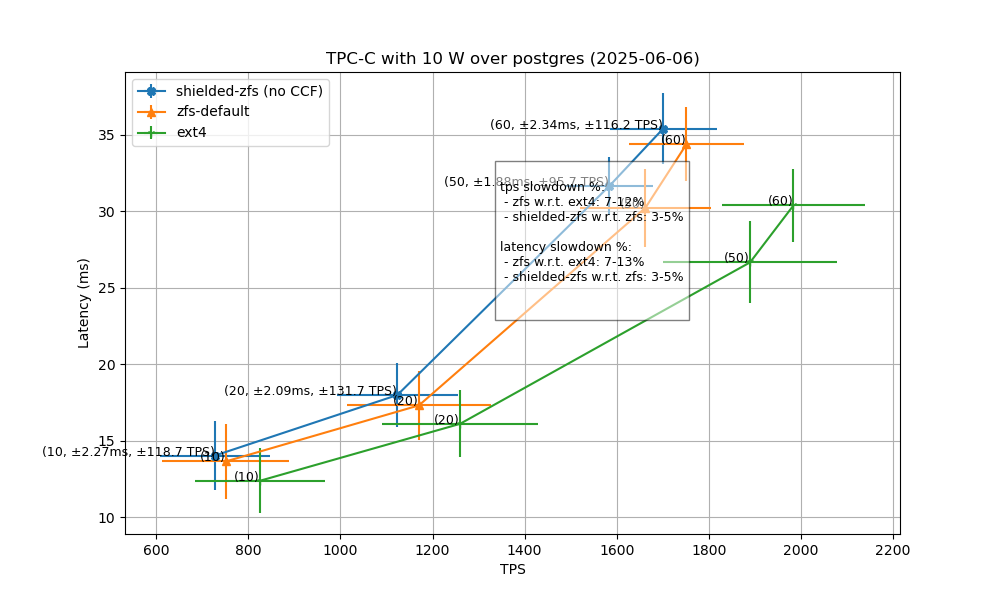
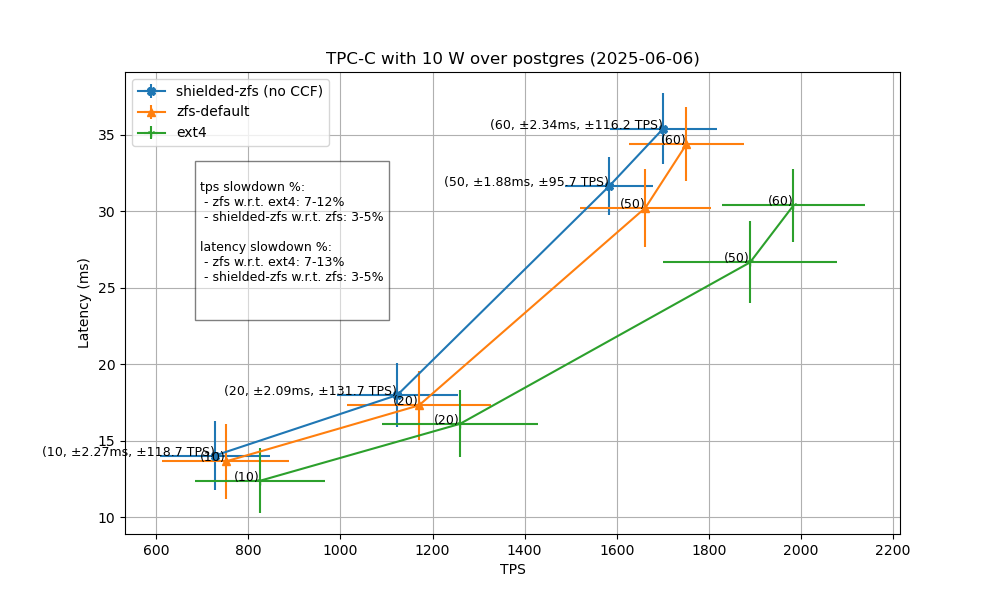
update the script + readme.md as I moved to a fresh-new VM

diff --git a/scripts/lat-throughput.py b/scripts/lat-throughput.py
@@ -140,7 +140,7 @@ latency slowdown %:
 """
 
 # Add statistics text box
-plt.gcf().text(0.5, 0.6, stats_text, fontsize=9, va='center', bbox=dict(facecolor='white', alpha=0.5))
+plt.gcf().text(0.2, 0.6, stats_text, fontsize=9, va='center', bbox=dict(facecolor='white', alpha=0.5))
 
 
 

diff --git a/scripts/readme.md b/scripts/readme.md
@@ -1,0 +1,5 @@
+### Dependencies
+
+```sh
+sudo apt-get install python3-matplotlib
+```
